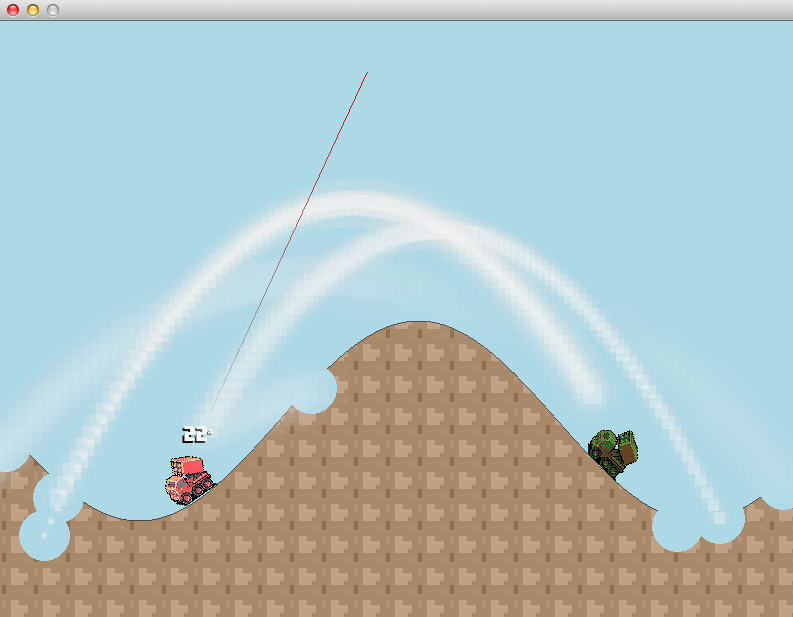
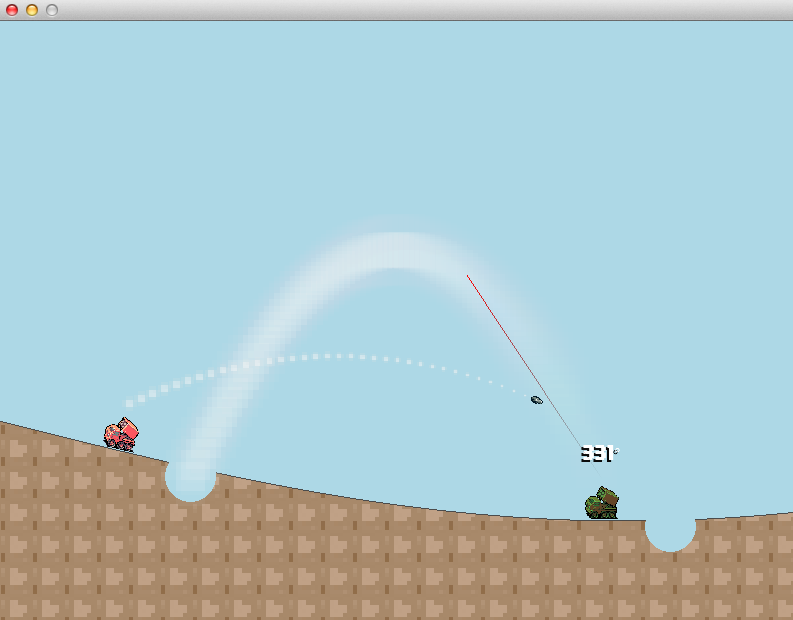
refinement: remove some magic numbers.

diff --git a/lib/states/play.rb b/lib/states/play.rb
@@ -8,17 +8,25 @@ class Play <  Chingu::GameState
       [:left_mouse_button]  => proc { player.try_fire(Gosu.angle(player.x, player.y, $window.mouse_x, $window.mouse_y)) and next_player }
     }
 
+    # cleanup old game objects
     Tank.destroy_all
     Shot.destroy_all
     Smoke.destroy_all
+    Explosion.destroy_all
 
+    # generate new terrain
     Terrain.instance.generate
 
-    @current_player_index = 0
-    x = $window.width/4*1
+    # player 1
+    x = rand(0..$window.width / 4)
     Tank.create(:x => x, :y => Terrain.instance.highest_collide_point(x))
-    x = $window.width/4*3
+
+    # player 2
+    x = rand(($window.width / 4 * 3)..$window.width)
     Tank.create(:x => x, :y => Terrain.instance.highest_collide_point(x))
+
+    # rand player start
+    @current_player_index = rand(1..Tank.size)
   end
 
   def update
@@ -27,28 +35,24 @@ class Play <  Chingu::GameState
       tank.y += 2 unless Terrain.instance.collide_point?(tank.x, tank.y + 2)
     end
 
+    # direct hits
     [Tank].each_collision(Shot) do |tank, shot|
-      tank.destroy
       shot.destroy
+      Explosion.create(:x => shot.x, :y => shot.y)
+      push_game_state(GameOver)
     end
 
+    # terrain hits
     Shot.all.each do |shot|
       if Terrain.instance.collide_point?(shot.x, shot.y)
         radius = 25
         Terrain.instance.remove_circle(shot.x, shot.y, radius)
-        Tank.all.each do |tank|
-          if Gosu.distance(tank.x, tank.y, shot.x, shot.y) < radius
-            tank.destroy
-          end
-        end
         Explosion.create(:x => shot.x, :y => shot.y)
         shot.destroy
       end
     end
 
     super
-
-    push_game_state(GameOver) if Tank.size < 2
   end
 
   def draw
@@ -57,7 +61,7 @@ class Play <  Chingu::GameState
 
     super
 
-    if Tank.size > 0 && player
+    if $window.current_game_state.class == self.class && player
       draw_angle
       draw_pointer
     end
@@ -70,7 +74,7 @@ class Play <  Chingu::GameState
 
     text      = "#{Gosu.angle(player.x, player.y, $window.mouse_x, $window.mouse_y).round}\xC2\xB0"
     x         = player.x - (@font.text_width(text)/2)
-    y         = player.y - player.height * 1.7
+    y         = player.y - player.height - 50
     z         = 0
     factor_x, factor_y = 1, 1
 

diff --git a/lib/terrain.rb b/lib/terrain.rb
@@ -2,8 +2,12 @@ require "singleton"
 
 class Terrain < Delegator
   include Singleton
-
   attr_accessor :image
+
+  module Color
+    EMPTY   = ::Gosu::Color.new(  0,   0,   0,   0)
+    SURFACE = ::Gosu::Color.new(255,  75,  75,  75)
+  end
 
   def initialize
     generate
@@ -11,16 +15,17 @@ class Terrain < Delegator
 
   def generate
     # http://banisterfiend.wordpress.com/2008/08/23/texplay-an-image-manipulation-tool-for-ruby-and-gosu/
-    self.image ||= ::TexPlay.create_image($window, $window.width, $window.height)
+    width, height = $window.width, $window.height
+    self.image ||= ::TexPlay.create_image($window, width, height)
 
     # bounds
-    x1, y1  = 0, $window.height/1.5
-    x2, y2  = $window.width, $window.height
+    x1, y1  = 0, height/1.5
+    x2, y2  = width, height
 
     # paint terrain
     image.paint do
       # clear
-      rect(0, 0, x2, y2, :fill => true, :color => Gosu::Color.new(0, 0, 0, 0))
+      rect(0, 0, x2, y2, :fill => true, :color => Color::EMPTY)
 
       # rand seed
       cycles = rand(10)
@@ -28,9 +33,9 @@ class Terrain < Delegator
       # draw
       x1 = 0.0
       while(x1 < $window.width) do
-        y1 = (Math.sin(x1 / $window.width * cycles) * 100) + $window.height / 1.5
+        y1 = (Math.sin(x1 / width * cycles) * 100) + height / 1.5
         line(x1, y1, x1, y2, :fill => true, :texture => Gosu::Image["terrain.png"])
-        pixel(x1, y1, :color => Gosu::Color.new(255, 75, 75, 75))
+        pixel(x1, y1, :color => Color::SURFACE)
         x1 += 1.0
       end
     end
@@ -48,7 +53,7 @@ class Terrain < Delegator
   end
 
   def collide_point?(x, y)
-    return false if x < 0 || y < 0 || x > image.width || y > image.height
+    return false if x < 0 || y < 0 || x > width || y > height
     image.get_pixel(x, y)[3] != 0 rescue false
   end
 
@@ -60,7 +65,7 @@ class Terrain < Delegator
 
   def remove_circle(center_x, center_y, radius=1)
     image.paint do
-      circle(center_x, center_y, radius, :color => [0, 0, 0, 0], :fill => true)
+      circle(center_x, center_y, radius, :color => Color::EMPTY, :fill => true)
     end
   end
 

diff --git a/lib/states/game_over.rb b/lib/states/game_over.rb
@@ -8,16 +8,17 @@ class GameOver < Chingu::GameState
     super
     previous_game_state.draw
     fill(@layover)
-    draw_text
+    draw_text("GAME OVER", $window.height/8, 56)
+    draw_text("ESC to quit, RETURN to try again!", $window.height/8*2, 42)
   end
 
-  def draw_text
+  def draw_text(text, y, font_size)
     factor_x, factor_y = 1, 1
 
-    @font     = Gosu::Font["minercraftory.ttf", 48]
-    text      = "GAME OVER (ESC to quit, RETURN to try again!)"
+    @font     = Gosu::Font["minercraftory.ttf", font_size]
+    # text      = "GAME OVER (ESC to quit, RETURN to try again!)"
     x         = ($window.width/2) - (@font.text_width(text, factor_x)/2)
-    y         = $window.height/8
+    # y         = $window.height/8
     z         = 0
 
     color     = Gosu::Color::BLACK

diff --git a/lib/game_objects/tank.rb b/lib/game_objects/tank.rb
@@ -4,6 +4,7 @@ class Tank < Chingu::GameObject
   attr_accessor :firing
 
   def setup
+    self.scale = 0.7
     self.rotation_center  = :bottom_center
     self.image = Gosu::Image["tank.png"]
     self.color = ColorBank.instance.next # Gosu::Color.new(255,rand(255), rand(255), rand(255))
@@ -78,7 +79,7 @@ class Tank < Chingu::GameObject
     return false
   end
 
-  def fire_y_offset; -60; end
+  def fire_y_offset; -40; end
 
 end
 
